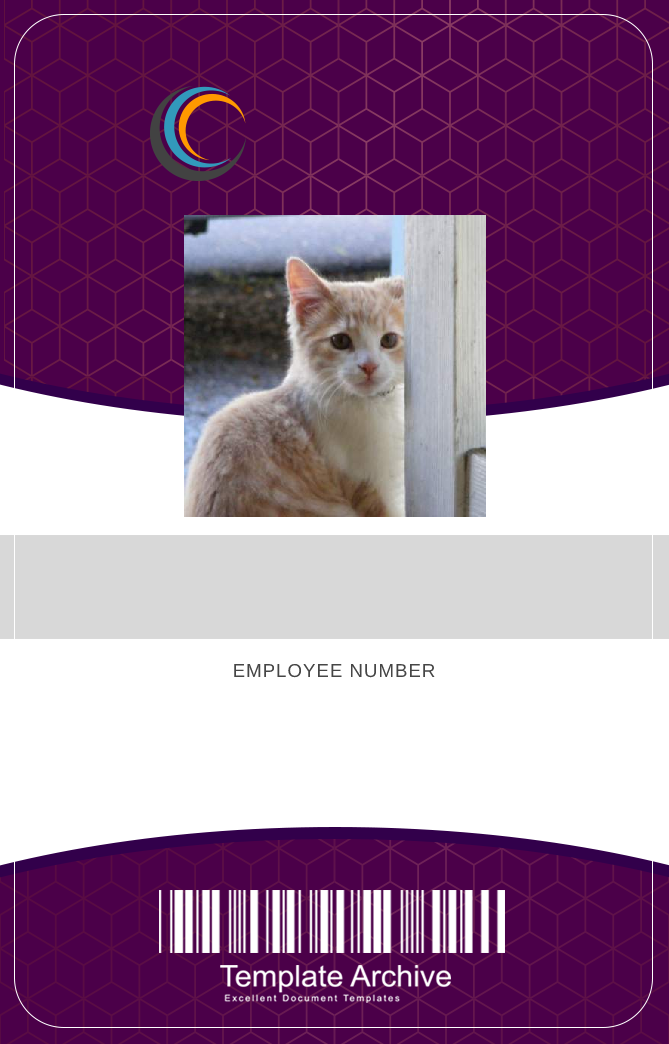
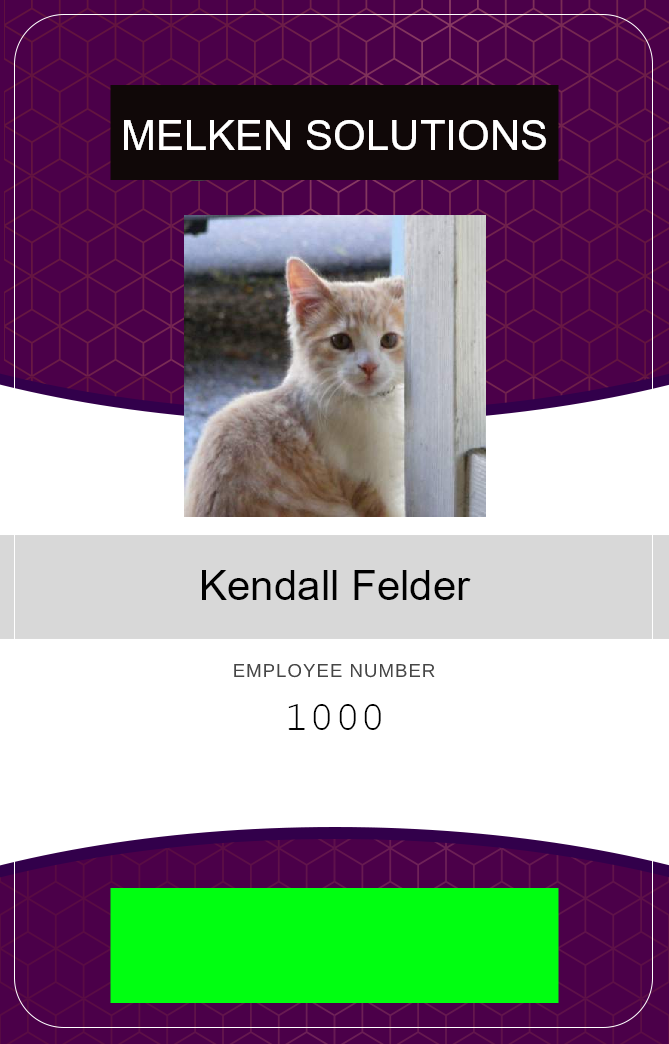
able to print info to badge

diff --git a/Util.cs b/Util.cs
@@ -47,6 +47,12 @@ namespace CatWorx.BadgeMaker
       int PHOTO_RIGHT_X = 486;
       int PHOTO_BOTTOM_Y = 517;
 
+      int COMPANY_NAME_Y = 150;
+
+      int EMPLOYEE_NAME_Y = 600;
+
+      int EMPLOYEE_ID_Y = 730;
+
       using(HttpClient client = new HttpClient())
       {
         for (int i = 0; i < employees.Count; i++)
@@ -62,10 +68,30 @@ namespace CatWorx.BadgeMaker
 
           // SKData data = background.Encode();
           // data.SaveTo(File.OpenWrite("data/employeeBadge.png"));
+          SKPaint paint = new SKPaint();
+          paint.TextSize = 42.0f;
+          paint.IsAntialias = true;
+          paint.Color = SKColors.White;
+          paint.IsStroke = false;
+          paint.TextAlign = SKTextAlign.Center;
+          paint.Typeface = SKTypeface.FromFamilyName("Arial");
+          //print company name
+          canvas.DrawText(employees[i].GetCompanyName(), BADGE_WIDTH / 2f, COMPANY_NAME_Y, paint);
+
+          paint.Color = SKColors.Black;
+          //print employee name
+          canvas.DrawText(employees[i].GetFullName(), BADGE_WIDTH / 2f, EMPLOYEE_NAME_Y, paint);
+
+          paint.Typeface = SKTypeface.FromFamilyName("Courier New");
+          //print employee id
+          canvas.DrawText(employees[i].GetId().ToString(), BADGE_WIDTH /2f, EMPLOYEE_ID_Y, paint);
+
 
           SKImage finalImage = SKImage.FromBitmap(badge);
           SKData data = finalImage.Encode();
           data.SaveTo(File.OpenWrite("data/employeeBadge.png"));
+
+          employees[i].GetCompanyName();
         }
       }
     }

diff --git a/Employee.cs b/Employee.cs
@@ -21,5 +21,8 @@ namespace CatWorx.BadgeMaker
     public string GetPhotoUrl() {
       return PhotoUrl;
     }
+    public string GetCompanyName() {
+      return "MELKEN SOLUTIONS";
+    }
   }
 }
